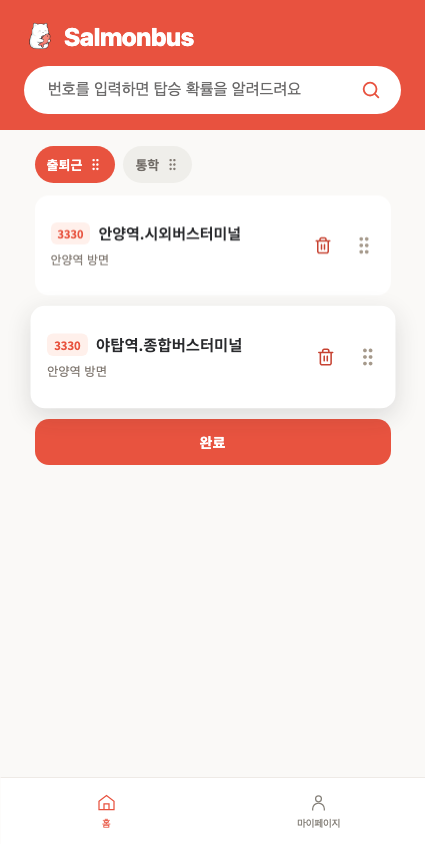
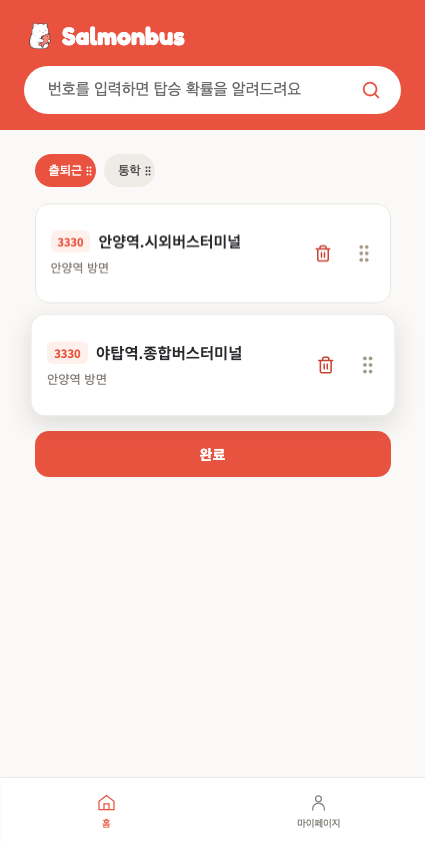
fix(SAL-249): 홈 즐겨찾기 편집 전후 탭과 카드 외형 유지

diff --git a/frontend/src/shared/components/favorite-editor/SortableList.css.ts b/frontend/src/shared/components/favorite-editor/SortableList.css.ts
@@ -1,8 +1,11 @@
 import { globalStyle, style } from "@vanilla-extract/css";
 import gripIcon from "@/shared/assets/icons/grip.svg";
+import { pill } from "@/shared/styles/selection.css";
+import { outlinedCard } from "@/shared/styles/surface.css";
+import { vars } from "@/shared/styles/tokens.css";
 
 const list = style({ display: "flex", gap: 12, margin: 0, padding: 0, listStyle: "none" });
-export const groups = style([list, { gap: 8 }]);
+export const groups = style([list, { gap: 8, minHeight: 32, alignItems: "center" }]);
 export const cards = style([list, { flexDirection: "column" }]);
 const item = style({
   position: "relative",
@@ -13,29 +16,25 @@ const item = style({
 });
 export const group = style([
   item,
+  pill,
   {
     display: "flex",
     alignItems: "center",
-    gap: 6,
-    padding: "0 12px",
-    borderRadius: 20,
-    background: "#EFEEEA",
-    color: "#837B74",
+    padding: 0,
     selectors: {
-      '&:has([aria-pressed="true"])': { background: "#E8533F", color: "white" },
+      '&:has([aria-pressed="true"])': { background: vars.color.brand, color: "white" },
     },
   },
 ]);
 export const card = style([
   item,
+  outlinedCard,
   {
     display: "flex",
     alignItems: "center",
     gap: 12,
     minHeight: 100,
     padding: 16,
-    borderRadius: 14,
-    background: "white",
   },
 ]);
 export const grip = style({
@@ -65,7 +64,15 @@ export const grip = style({
 });
 export const groupGrip = style([
   grip,
-  { width: 15, height: 37, color: "inherit", selectors: { "&::before": { width: 15, height: 15 } } },
+  {
+    position: "absolute",
+    right: 0,
+    top: 0,
+    width: 14,
+    height: "100%",
+    color: "inherit",
+    selectors: { "&::before": { width: 12, height: 12 } },
+  },
 ]);
 globalStyle(`${list}[data-sorting="true"] > li:not([data-dragging="true"])`, {
   transition: "transform 180ms cubic-bezier(0.22, 1, 0.36, 1)",

diff --git a/frontend/src/pages/route-select/components/HomeFavorites.css.ts b/frontend/src/pages/route-select/components/HomeFavorites.css.ts
@@ -1,18 +1,15 @@
 import { style, styleVariants } from "@vanilla-extract/css";
 import { vars } from "@/shared/styles/tokens.css";
-import { card as cardBase } from "@/shared/styles/surface.css";
+import { card as cardBase, outlinedCard } from "@/shared/styles/surface.css";
+import { pill } from "@/shared/styles/selection.css";
 import { text } from "@/shared/styles/button.css";
 
-export const editor = style({ marginTop: -8 });
 export const section = style({ width: "100%", maxWidth: 356, margin: "0 auto" });
 export const card = style([
   cardBase,
+  outlinedCard,
   {
     padding: "16px 18px",
-    border: 0,
-    outline: "1px solid #EAE6E0",
-    outlineOffset: "-0.5px",
-    borderRadius: 14,
     fontFamily: "'Noto Sans KR', sans-serif",
   },
 ]);
@@ -119,17 +116,13 @@ export const list = style({
   listStyle: "none",
 });
 export const tabs = style({ display: "flex", alignItems: "center", gap: 8, marginBottom: 16 });
-export const tab = style({
-  border: 0,
-  borderRadius: 20,
-  padding: "8px 14px",
-  background: "#EEECE7",
-  color: vars.color.textBody,
-  font: "inherit",
-  fontSize: 13,
-  cursor: "pointer",
-  selectors: { '&[aria-selected="true"]': { background: vars.color.brand, color: "white" } },
-});
+export const tab = style([
+  pill,
+  {
+    cursor: "pointer",
+    selectors: { '&[aria-selected="true"]': { background: vars.color.brand, color: "white" } },
+  },
+]);
 export const homeEdit = style([
   text,
   { display: "grid", placeItems: "center", flexShrink: 0, width: 36, height: 32, padding: "6px 8px" },

diff --git a/frontend/src/pages/route-select/components/HomeFavorites.tsx b/frontend/src/pages/route-select/components/HomeFavorites.tsx
@@ -46,15 +46,13 @@ export function HomeFavorites() {
   const favorites = latest?.body.groups.find((candidate) => candidate.id === group?.id)?.favorites ?? [];
   if (ordering)
     return (
-      <div className={homeStyles.editor}>
-        <FavoriteEditor
-          {...(group ? { initialGroupId: group.id } : {})}
-          onClose={(saved) => {
-            setOrdering(false);
-            if (saved) showNotice();
-          }}
-        />
-      </div>
+      <FavoriteEditor
+        {...(group ? { initialGroupId: group.id } : {})}
+        onClose={(saved) => {
+          setOrdering(false);
+          if (saved) showNotice();
+        }}
+      />
     );
   const loadingError =
     resource.status === "loadingError" ? resource : group && summary.status === "loadingError" ? summary : null;

diff --git a/frontend/src/shared/components/favorite-editor/FavoriteEditor.css.ts b/frontend/src/shared/components/favorite-editor/FavoriteEditor.css.ts
@@ -8,20 +8,18 @@ export const editor = style({
   margin: "0 auto",
   display: "flex",
   flexDirection: "column",
-  gap: 12,
+  gap: 16,
   fontFamily: "'Noto Sans KR', sans-serif",
 });
 export const groupName = style({
   minWidth: 0,
-  padding: "9px 0",
+  padding: "8px 14px",
   border: 0,
   background: "transparent",
-  color: "#706B66",
+  color: "inherit",
   selectors: { '&[aria-pressed="true"]': { color: "white" } },
   font: "inherit",
   fontSize: 13,
-  fontWeight: 600,
-  lineHeight: "19px",
   whiteSpace: "nowrap",
   overflow: "hidden",
   textOverflow: "ellipsis",

diff --git a/frontend/src/shared/styles/selection.css.ts b/frontend/src/shared/styles/selection.css.ts
@@ -1,0 +1,14 @@
+import { style } from "@vanilla-extract/css";
+import { vars } from "./tokens.css";
+
+export const pill = style({
+  border: 0,
+  borderRadius: 20,
+  padding: "8px 14px",
+  background: "#EEECE7",
+  color: vars.color.textBody,
+  fontFamily: "-apple-system, BlinkMacSystemFont, 'Segoe UI', sans-serif",
+  fontSize: 13,
+  fontWeight: 400,
+  lineHeight: "normal",
+});

diff --git a/frontend/src/shared/styles/surface.css.ts b/frontend/src/shared/styles/surface.css.ts
@@ -14,3 +14,11 @@ export const row = style([
   card,
   { display: "flex", justifyContent: "space-between", alignItems: "center", minHeight: 66 },
 ]);
+
+export const outlinedCard = style({
+  border: 0,
+  outline: "1px solid #EAE6E0",
+  outlineOffset: "-0.5px",
+  borderRadius: 14,
+  background: vars.color.surface,
+});
